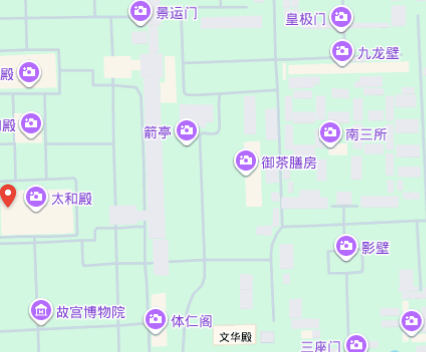
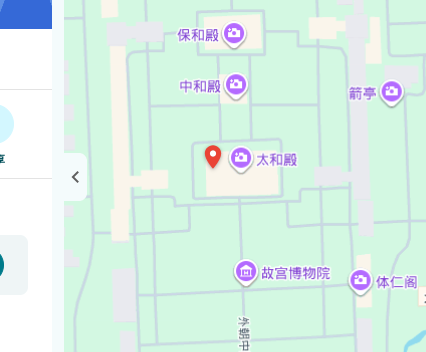
docs: center README crops on the red teardrop pin

diff --git a/scripts/capture-readme-shots.js b/scripts/capture-readme-shots.js
@@ -7,12 +7,80 @@
 const { chromium } = require("@playwright/test");
 const path = require("path");
 const fs = require("fs");
+require("../aligner-lib.js");
+const lib = globalThis.Gcj02Aligner;
 
 const ROOT = path.join(__dirname, "..");
 const EXT_PATH = ROOT;
 const DOCS = path.join(ROOT, "docs");
 const VIEWPORT = { width: 1280, height: 800 };
-const CROP_SCALE = 0.5;
+const CROP_W = 426;
+const CROP_H = 352;
+
+function projectedPinTip(url, canvasBox) {
+  const st = lib.parseMapHref(url);
+  const place = lib.parsePlaceCoords(url);
+  if (!st || !place || !canvasBox) return null;
+  const px = lib.gcjLatLonToScreenPx(
+    place.lat,
+    place.lon,
+    st.lat,
+    st.lon,
+    st.zoom,
+    canvasBox.width,
+    canvasBox.height
+  );
+  return {
+    x: canvasBox.left + px.x,
+    y: canvasBox.top + px.y,
+    source: "projected"
+  };
+}
+
+async function findRedPinOnMapCanvas(page, hint) {
+  return page.evaluate(({ hx, hy }) => {
+    const isPinRed = (r, g, b, a) =>
+      a > 180 && r > 170 && g < 130 && b < 130 && r > g + 35 && r > b + 35;
+    const candidates = [];
+    for (const canvas of document.querySelectorAll("canvas")) {
+      const cr = canvas.getBoundingClientRect();
+      if (cr.width < 200 || cr.height < 200) continue;
+      const tmp = document.createElement("canvas");
+      tmp.width = canvas.width;
+      tmp.height = canvas.height;
+      const ctx = tmp.getContext("2d");
+      if (!ctx) continue;
+      ctx.drawImage(canvas, 0, 0);
+      const data = ctx.getImageData(0, 0, tmp.width, tmp.height).data;
+      const sx = canvas.width / cr.width;
+      const sy = canvas.height / cr.height;
+      const x0 = Math.floor(tmp.width * 0.32);
+      for (let y = 48; y < tmp.height - 80; y += 2) {
+        for (let x = x0; x < tmp.width - 14; x += 2) {
+          let score = 0;
+          for (let dy = 0; dy < 14; dy++) {
+            for (let dx = 0; dx < 14; dx++) {
+              const i = ((y + dy) * tmp.width + (x + dx)) * 4;
+              if (isPinRed(data[i], data[i + 1], data[i + 2], data[i + 3])) score++;
+            }
+          }
+          if (score < 12) continue;
+          const tipX = cr.left + (x + 7) / sx;
+          const tipY = cr.top + (y + 12) / sy;
+          if (hx != null && Math.hypot(tipX - hx, tipY - hy) > 180) continue;
+          candidates.push({ score, tipX, tipY });
+        }
+      }
+    }
+    if (!candidates.length) return null;
+    candidates.sort((a, b) => b.score - a.score || (
+      (hx == null ? 0 : Math.hypot(a.tipX - hx, a.tipY - hy))
+      - (hx == null ? 0 : Math.hypot(b.tipX - hx, b.tipY - hy))
+    ));
+    const best = candidates[0];
+    return { x: best.tipX, y: best.tipY, source: "canvas-red" };
+  }, { hx: hint?.x ?? null, hy: hint?.y ?? null });
+}
 
 const TAIHEDIAN_SAT =
   "https://www.google.com/maps/place/%E5%A4%AA%E5%92%8C%E6%AE%BF/@39.917273,116.3970962,1179m/data=!3m2!1e3!4b1!4m6!3m5!1s0x35f052c28a42d347:0x4d686c72723159fa!8m2!3d39.917273!4d116.3970962!16zL20vMDQ4N3dn";
@@ -74,36 +142,43 @@ async function waitForExtensionReady(page, kind) {
   await page.waitForTimeout(2500);
 }
 
-async function mapCropClip(page) {
-  const vp = page.viewportSize();
-  const fromCanvas = await page.evaluate(() => {
+async function findPinTip(page, url) {
+  const fromDom = await page.evaluate(() => {
+    const poi = document.querySelector("#gcj02-aligner-root .gcj02-poi.is-place-pin")
+      || document.querySelector("#gcj02-aligner-root .gcj02-poi");
+    if (poi) {
+      const r = poi.getBoundingClientRect();
+      return { x: r.left + r.width / 2, y: r.bottom - 1, source: "overlay" };
+    }
+    return null;
+  });
+  if (fromDom) return fromDom;
+
+  const canvasBox = await page.evaluate(() => {
     const canvas = [...document.querySelectorAll("canvas")]
       .filter((c) => c.getBoundingClientRect().width > 400)
       .sort((a, b) => b.width * b.height - a.width * a.height)[0];
     if (!canvas) return null;
     const r = canvas.getBoundingClientRect();
-    return { x: r.left, y: r.top, width: r.width, height: r.height };
+    return { left: r.left, top: r.top, width: r.width, height: r.height };
   });
-  if (!fromCanvas) return null;
+  const hint = projectedPinTip(url, canvasBox);
+
+  const fromCanvas = await findRedPinOnMapCanvas(page, hint);
+  if (fromCanvas) return fromCanvas;
+  if (hint) return hint;
+  return null;
+}
+
+function clipAroundPin(pin, vp) {
   const sidebar = Math.round(Math.min(420, vp.width * 0.34));
-  const x = Math.round(Math.max(fromCanvas.x, sidebar));
-  const y = Math.round(fromCanvas.y + 8);
-  const width = Math.round(Math.min(fromCanvas.width, vp.width - x - 8));
-  const height = Math.round(fromCanvas.height - 96);
-  const full = {
-    x,
-    y,
-    width: Math.max(640, width),
-    height: Math.max(360, height)
-  };
-  const w = Math.round(full.width * CROP_SCALE);
-  const h = Math.round(full.height * CROP_SCALE);
-  return {
-    x: Math.round(full.x + (full.width - w) / 2),
-    y: Math.round(full.y + (full.height - h) / 2),
-    width: w,
-    height: h
-  };
+  const marginTop = 48;
+  const marginBottom = 48;
+  let x = Math.round(pin.x - CROP_W / 2);
+  let y = Math.round(pin.y - CROP_H / 2);
+  x = Math.max(sidebar, Math.min(x, vp.width - CROP_W - 4));
+  y = Math.max(marginTop, Math.min(y, vp.height - CROP_H - marginBottom));
+  return { x, y, width: CROP_W, height: CROP_H };
 }
 
 async function launchContext(withExtension) {
@@ -134,16 +209,17 @@ async function captureShot(page, shot) {
   await waitForMapCanvas(page);
   if (shot.extension) {
     await waitForExtensionReady(page, shot.kind);
-    await page.addStyleTag({
-      content: "#gcj02-aligner-status{opacity:0.85 !important}"
-    }).catch(() => {});
   } else {
     await page.waitForTimeout(2000);
   }
-  const clip = await mapCropClip(page);
-  if (!clip) throw new Error(`map canvas not found: ${shot.label}`);
+  await page.addStyleTag({
+    content: "#gcj02-aligner-status{opacity:0.85!important}.dismissible-content,.Q6EWfb{display:none!important}"
+  }).catch(() => {});
+  const pin = await findPinTip(page, shot.url);
+  if (!pin) throw new Error(`pin not found: ${shot.label}`);
+  const clip = clipAroundPin(pin, page.viewportSize());
   await page.screenshot({ path: outPath, clip });
-  console.log(`${shot.label} → ${outPath} (${clip.width}x${clip.height})`);
+  console.log(`${shot.label} → ${outPath} (${clip.width}x${clip.height}) pin@(${Math.round(pin.x)},${Math.round(pin.y)}) ${pin.source || ""}`);
 }
 
 (async () => {
